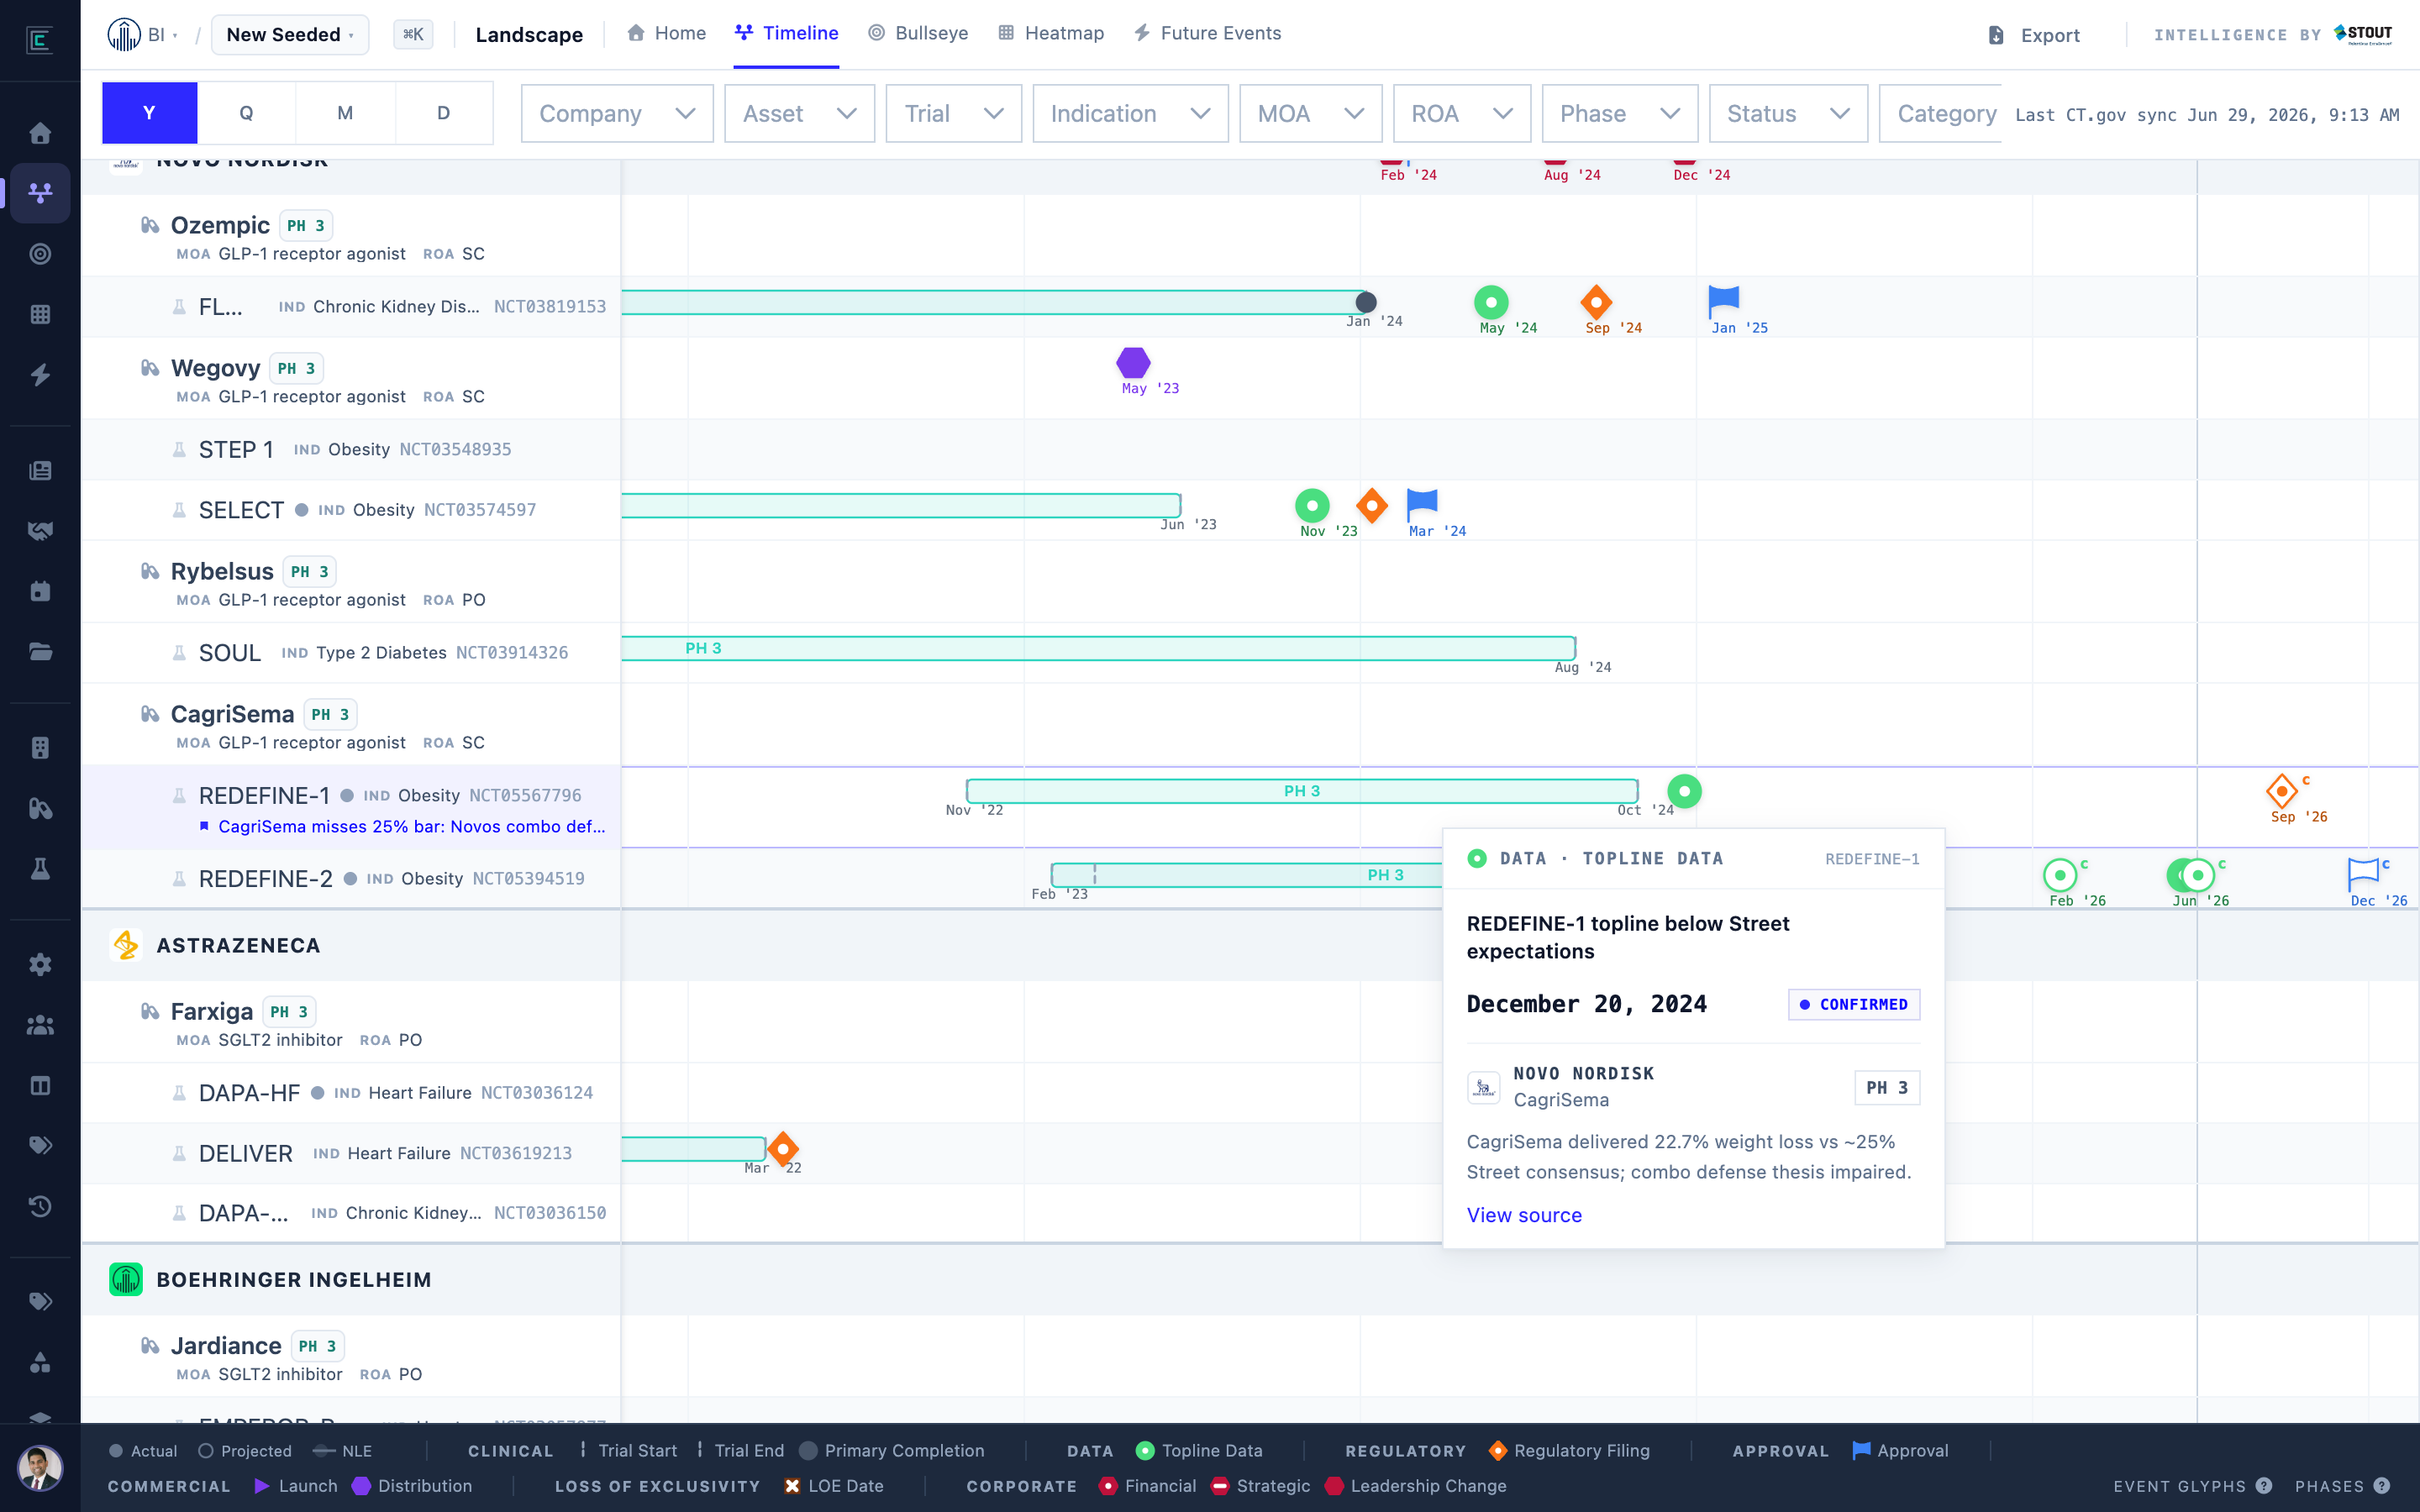
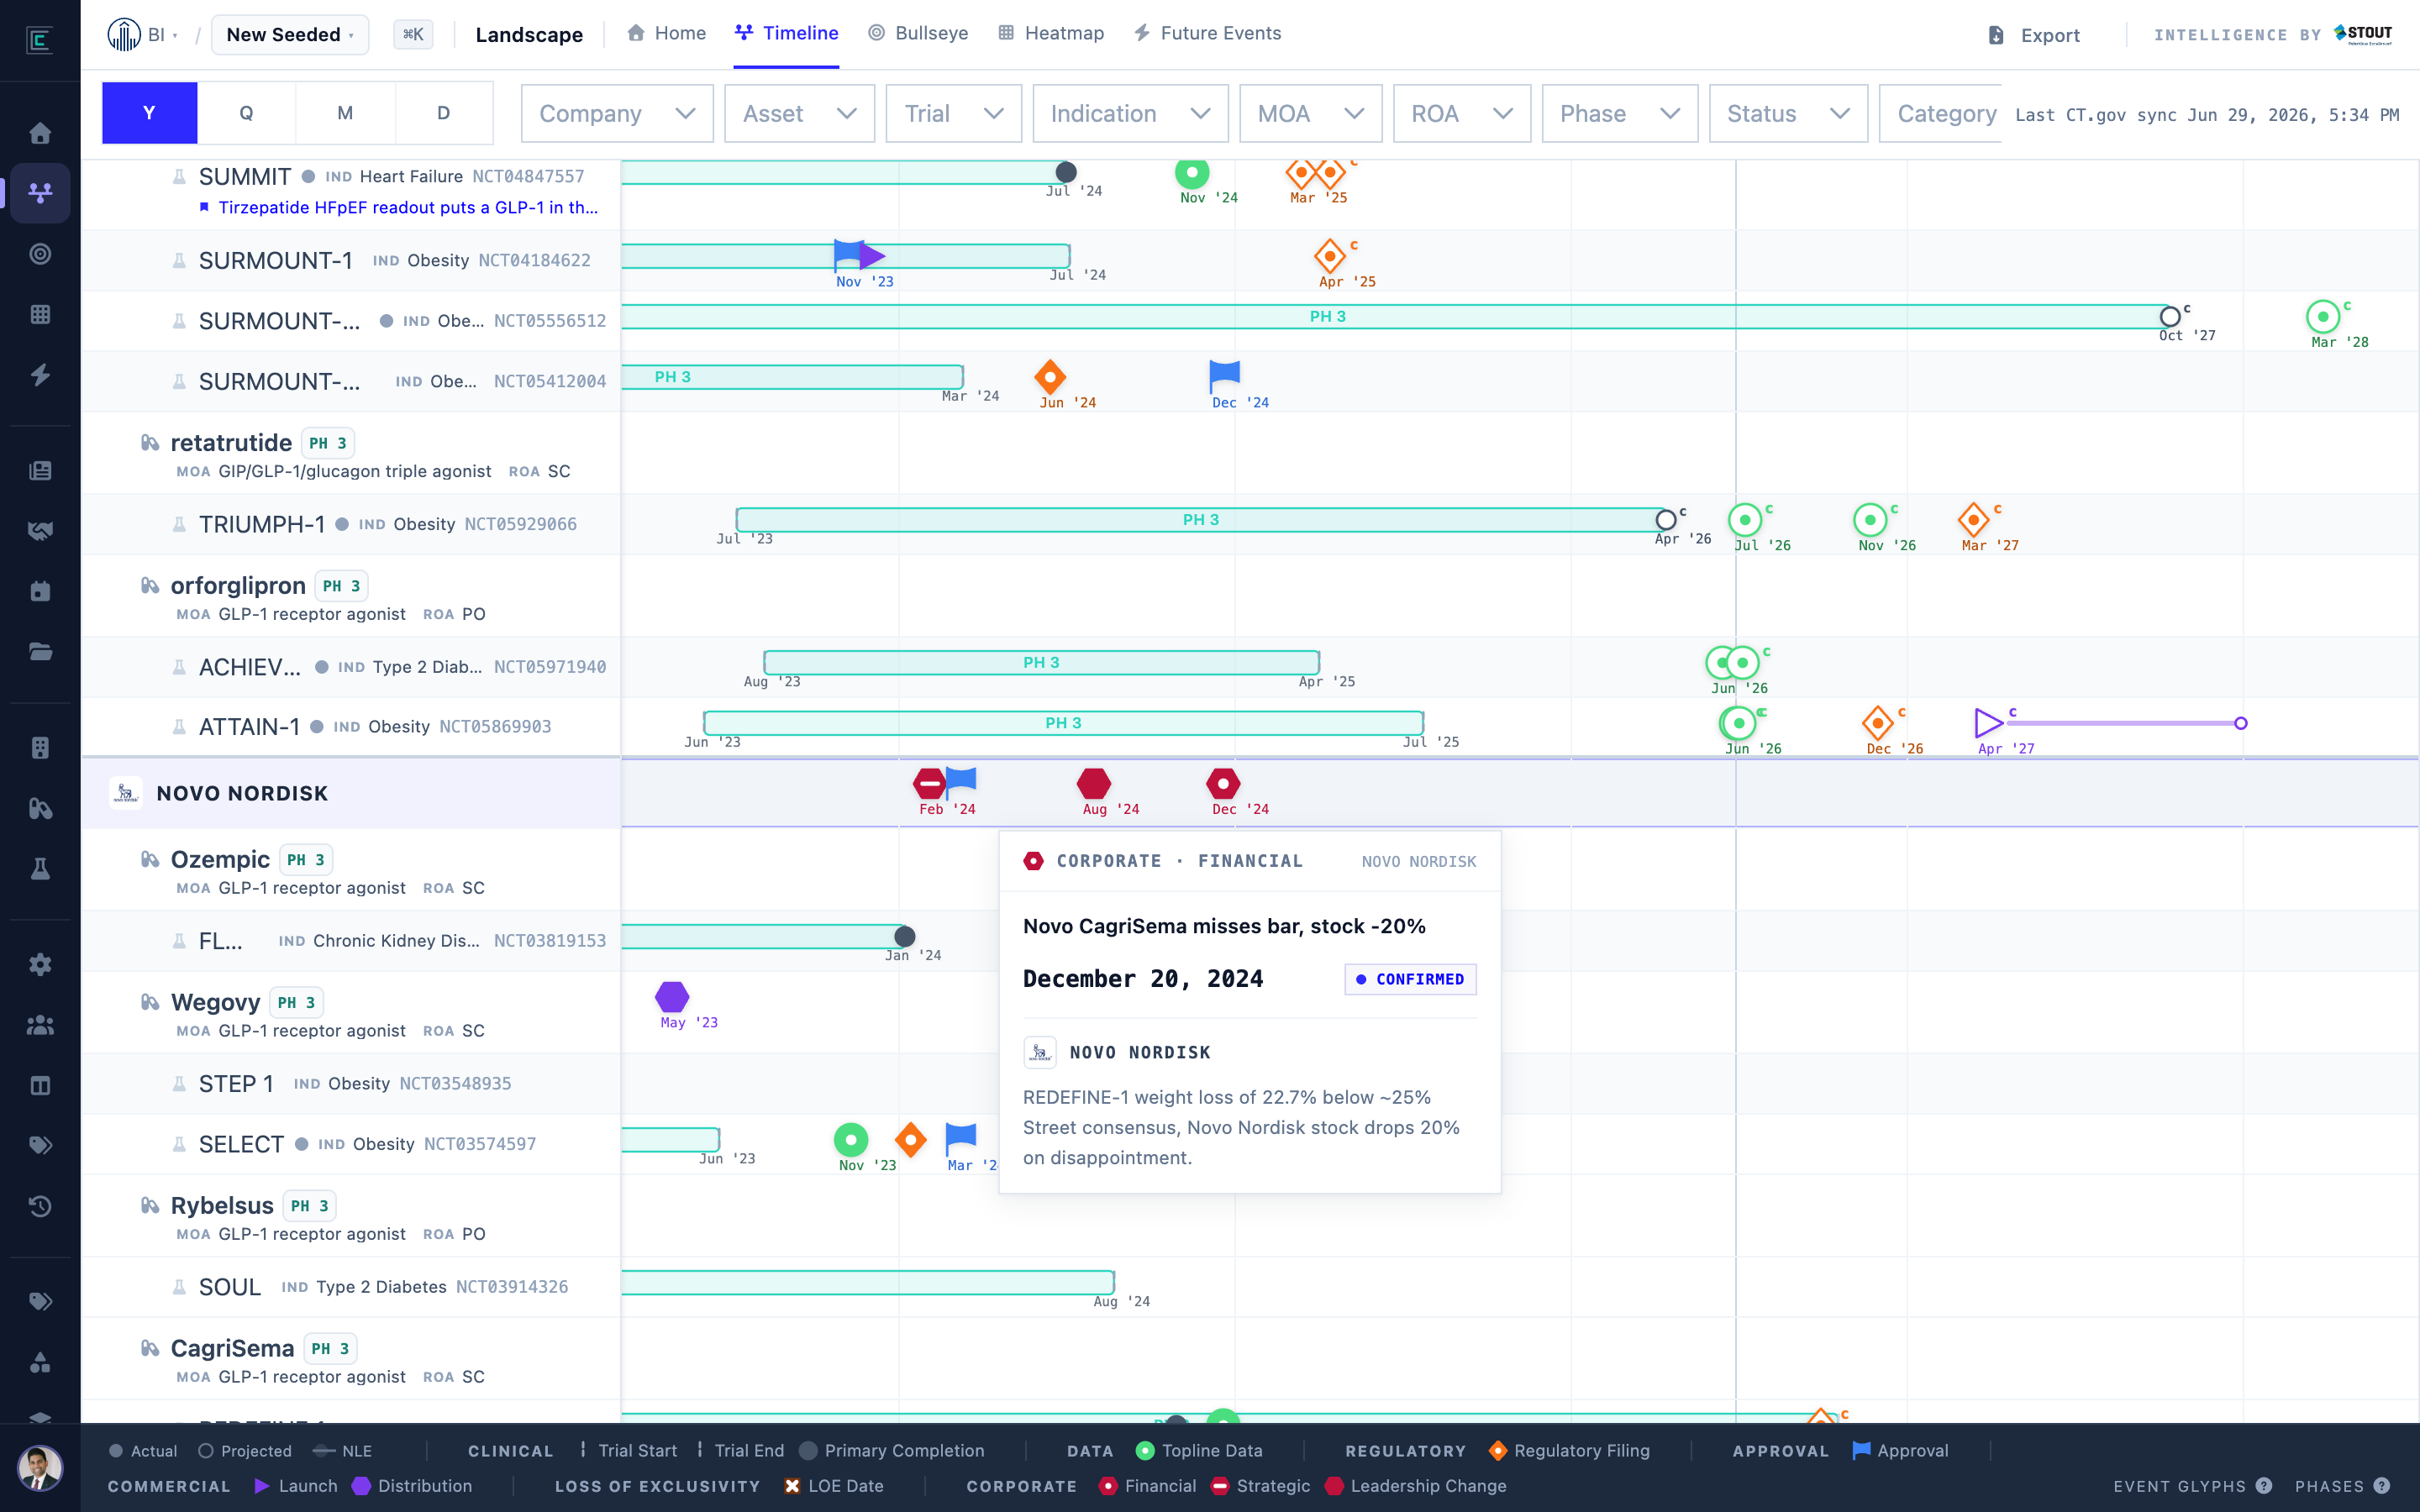
feat(deck): slide-4 compounding-data track + better timeline hero shot
- Slide 4: rename the live node to "One-paste AI import"; add a second
  "Further out" track below the three near-term steps describing how the
  dataset compounds (registry + analyst data, intelligence history, structured
  and unstructured materials) into new products, data warehousing, and
  cross-modal analysis. Update the lede to match.
- Timeline shot: hover an interesting non-CT.gov marker (a dated readout/event
  with a competitive read) and center it both ways so the tooltip stays fully in
  frame over a denser marker field, instead of a clipped tooltip in a sparse area.

diff --git a/src/client/public/internal/stout-intro.html b/src/client/public/internal/stout-intro.html
@@ -951,6 +951,28 @@
         font-size: 13.5px;
         color: var(--slate-600);
       }
+      /* Second roadmap track: the longer-horizon "compounding data" story runs on
+     its own dashed line below the near-term track, so it reads as a parallel
+     timeline that continues past the three near-term steps. */
+      .roadmap.horizon {
+        margin-top: 24px;
+        padding-top: 18px;
+      }
+      .roadmap.horizon .roadmap-line {
+        right: 8px;
+      }
+      .roadmap.horizon .roadmap-grid {
+        grid-template-columns: 1fr;
+      }
+      .roadmap.horizon .rm-stage {
+        max-width: 920px;
+      }
+      .roadmap.horizon .rm-stage h3 {
+        font-size: 16px;
+      }
+      .roadmap.horizon .rm-stage p {
+        font-size: 14px;
+      }
       /* Slide 5 (what changes): a before/after shift table. Each row is one
      dimension of the engagement. The "Without Clint" column recedes in muted
      slate; the "With Clint" column is the hero, carried by a brand left rule
@@ -1558,7 +1580,7 @@
           </h1>
           <div class="cover-hero">
             <img
-              src="img/timeline.png?v=d95c8367f4"
+              src="img/timeline.png?v=309fc9f8b2"
               alt="The timeline: every company's programs grouped company to asset to trial, phase bars behind dated events for data, regulatory, approval, and launch. Filter, group, and zoom to read any slice of the field."
             />
           </div>
@@ -1858,8 +1880,8 @@
           <h2 class="slide-title">Clint's data is built for AI.</h2>
           <p class="lede">
             Clint's data is already structured and cited, which is what AI needs to give reliable
-            answers. AI-powered import is already live inside the platform today; two further ways
-            to use the data are on the roadmap.
+            answers. One-paste AI import is live today; more ways to put that data to work are on the
+            roadmap, and the dataset itself compounds into something bigger over time.
           </p>
           <div class="body">
             <div class="roadmap">
@@ -1868,7 +1890,7 @@
                 <div class="rm-stage">
                   <div class="rm-marker"><span class="rm-node live"></span></div>
                   <span class="pill brand">Live today</span>
-                  <h3>Clint already supports AI import</h3>
+                  <h3>One-paste AI import</h3>
                   <p>
                     Paste a few trial IDs, a link, or a block of text, and Clint's AI builds the
                     full competitive landscape, doing the heavy lifting for the analyst.
@@ -1891,6 +1913,25 @@
                     Ask your AI agents about the competitive picture and get an answer drawn from
                     Clint, with the sources attached. Analysts who already work this way get Clint's
                     data without leaving the tools they use.
+                  </p>
+                </div>
+              </div>
+            </div>
+            <div class="roadmap horizon">
+              <div class="roadmap-line" aria-hidden="true"></div>
+              <div class="roadmap-grid">
+                <div class="rm-stage">
+                  <div class="rm-marker"><span class="rm-node"></span></div>
+                  <span class="pill">Further out</span>
+                  <h3>A dataset that compounds into new products</h3>
+                  <p>
+                    Every engagement leaves more behind: the registry data Clint pulls in, the events
+                    and markers analysts log, the full history of every published read, and the
+                    documents behind them, structured and unstructured alike. The longer Clint runs,
+                    the richer and more connected that store becomes, which is exactly what's needed
+                    to build new products and deeper analysis on top of it, with the data warehousing
+                    and cross-modal analysis that read across trials, events, intelligence, and
+                    documents at once.
                   </p>
                 </div>
               </div>
@@ -2063,7 +2104,7 @@
                   onclick="openLightbox(this.querySelector('img'))"
                 >
                   <img
-                    src="img/timeline.png?v=d95c8367f4"
+                    src="img/timeline.png?v=309fc9f8b2"
                     alt="The timeline: every company's programs grouped company to asset to trial, phase bars behind dated events for data, regulatory, approval, and launch. Filter, group, and zoom to read any slice of the field."
                   />
                 </button>